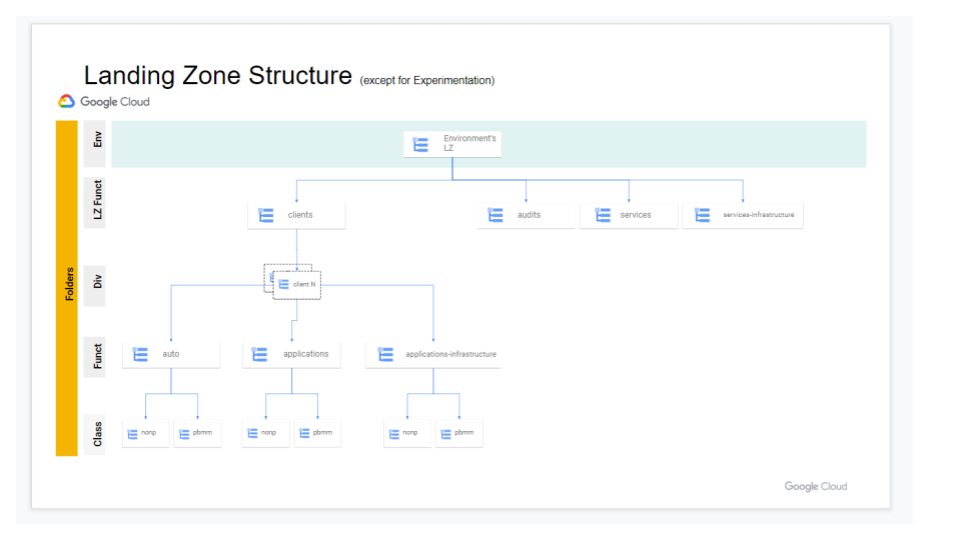
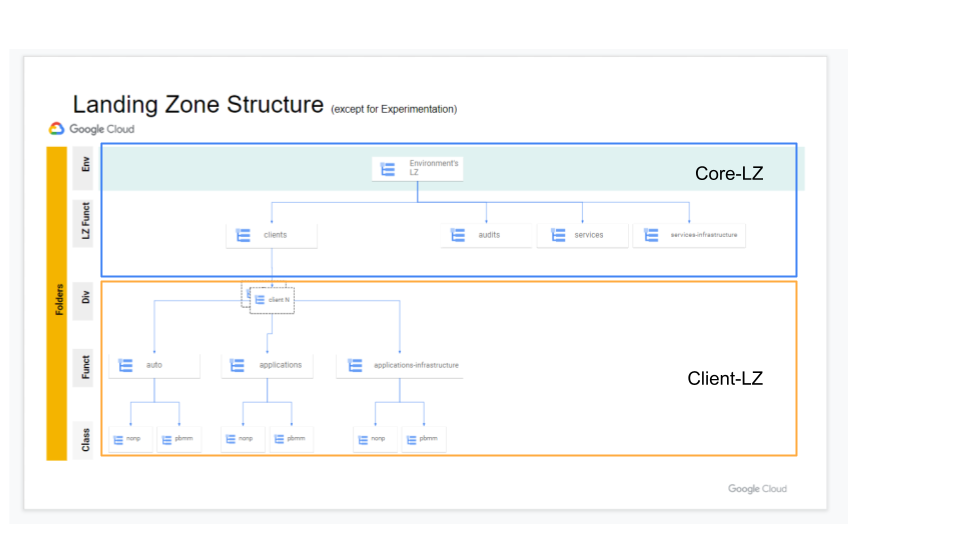
Added details on package structure and new diagram and added current pkg version to kpt commands

Changed region(s): [[0.0312, 0.1185, 0.9062, 0.8593], [0.75, 0.8889, 0.875, 0.9185], [0.7188, 0.6815, 0.8125, 0.7111]]

diff --git a/docs/landing-zone-v2/README.md b/docs/landing-zone-v2/README.md
@@ -10,8 +10,8 @@
   - [Single GCP organization](#single-gcp-organization)
   - [Multiple GCP organizations](#multiple-gcp-organizations)
   - [Folder Structure Per Environment (Dev, Preprod, Prod)](#folder-structure-per-environment-dev-preprod-prod)
-    - [Core Landing Zone Folders](#core-landing-zone-folders)
-    - [Client Landing Zone Folders](#client-landing-zone-folders)
+    - [Core Landing Zone](#core-landing-zone)
+    - [Client Landing Zone](#client-landing-zone)
   - [Setup](#setup)
     - [1. Complete the bootstrap procedure](#1-complete-the-bootstrap-procedure)
       - [Requirements](#requirements)
@@ -28,7 +28,7 @@
     - [Fetch the packages](#fetch-the-packages)
     - [2b. Deploy the infrastructure using KPT](#2b-deploy-the-infrastructure-using-kpt)
       - [gatekeeper-policies](#gatekeeper-policies)
-      - [core-landing-zone](#core-landing-zone)
+      - [core-landing-zone](#core-landing-zone-1)
   - [3. Deploy the infrastructure using GitOps](#3-deploy-the-infrastructure-using-gitops)
     - [Create a new repository in your Repo Hosting Solution (Github, Gitlab or Azure Devops)](#create-a-new-repository-in-your-repo-hosting-solution-github-gitlab-or-azure-devops)
     - [ConfigSync](#configsync)
@@ -51,25 +51,41 @@ This Landing Zone v2 differentiates from the `solutions/landing-zone` mostly bec
 
 ## <a name='Implementation'></a>Implementation
 
+
 You may want to look at the [documentation](https://github.com/ssc-spc-ccoe-cei/gcp-documentation) published by **Shared Services Canada**, providing a good level of details on how they have implemented this landing zone solution to host workloads from any of the 43 departments of the Government of Canada.
 
 ## <a name='Organization'></a>Organization
 
-This Landing Zone v2 assumes that the different required environments known as Experimentation, Development, PreProduction and Production are all instantiated with their own landing zone. This can be achieved with a single GCP organization and multiple landing zone folders representing the environments OR by using multiple GCP organizations.
+This Landing Zone v2 assumes that the different required environments known as Experimentation, Development, PreProduction and Production are all instantiated with their own landing zone. This can be achieved with a single GCP organization and multiple landing zone folders representing the environments OR by using multiple GCP organizations. 
 
 ## <a name='SingleGCPorganization'></a>Single GCP organization
+
+This pattern will be ideal for most use-cases and isolation between enviornments is achieved through folder structures.
+
+In this example a Landing Zone is deployed per environment.
 
 ![img](img/single-org.png)
 
 ## <a name='MultipleGCPorganizations'></a>Multiple GCP organizations
 
+This pattern is ideal for Departments who need a higher degree of isolation between environments by using Google Cloud Organizations as the environment boundary vs using folders.
+
+Additional details about using multiple organizations can be found [here](https://cloud.google.com/resource-manager/docs/managing-multiple-orgs).
+
 ![img](img/multi-org.png)
 
 ## <a name="folderStructure"></a>Folder Structure Per Environment (Dev, Preprod, Prod)
 
+A deployed Landing Zone contains two sections the Core Landing Zone and the Client Landing Zone. Together they will deploy a structure that matches the diagram below.
+
+
 ![img](img/folder-structure.png)
 
-### Core Landing Zone Folders
+### Core Landing Zone
+
+This is made up of two pacakges `core-landing-zone` and `gatekeeper-policies`. This section provides the core of the landing zone functionality with Logging, Org Policies, and Shared Infrastructure like DNS and a Shared VPC (coming soon) as well as compliance enforcement in Config Controller.
+
+This can be deployed once or multiple times per organization as highlighted in the diagrams below.
 
 | Folder | Usage |
 | --- | --- |
@@ -78,7 +94,13 @@ This Landing Zone v2 assumes that the different required environments known as E
 | services | Contains service projects for applications that are offered as a services (AD, Backup, Trusted Images, Artifact registry, Certificate Authority, etc.) to all clients |
 | services-infrastructure | Contains the shared hub networking project, the core dns project as well as the host project for additional services |
 
-### Client Landing Zone Folders
+### Client Landing Zone
+
+This section is made up of two packages `client-setup` and `client-landing-zone`. The client setup package prepares the Config Controller instances for the new client and creates the required service accounts and namespaces for the client to use.
+
+The `client-landing-zone` package deploys the clients Google Cloud resources, including folder structure, firewalls, and Shared Infrastructure (VPC). The deployment of these packages are repeated for each onboarded client. A client in these examples would be an a department or working group that needs isolation from other groups.
+
+It is possible to only have 1 client and service multiple teams and working groups. In this case teams would have folders or projects created under the `applications`, `auto` and/or `applications-infrastructure` folders that are created in the `client-landing-zone` deployment.
 
 | Folder | Usage |
 | --- | --- |
@@ -375,7 +397,7 @@ cd pbmm-landingzone
 1. Get the gatekeeper policies package. These are the policies which your Config Controller instance will use to [validate](https://cloud.google.com/anthos-config-management/docs/concepts/policy-controller) compliance of any configuration deployed, this currently checks for guardrails compliance and naming conventions on projects. These policies will also be validated when running the `kpt fn render` command for early feedback.
 
     ```shell
-    kpt pkg get https://github.com/GoogleCloudPlatform/pubsec-declarative-toolkit.git/solutions/gatekeeper-policies@<VERSION>
+    kpt pkg get https://github.com/GoogleCloudPlatform/pubsec-declarative-toolkit.git/solutions/gatekeeper-policies@0.2.0
     ```
 
 1. Get the landing zone package
@@ -383,13 +405,13 @@ cd pbmm-landingzone
     - Experimentation
 
       ```shell
-      kpt pkg get https://github.com/GoogleCloudPlatform/pubsec-declarative-toolkit.git/solutions/experimentation/core-landing-zone@<VERSION>
+      kpt pkg get https://github.com/GoogleCloudPlatform/pubsec-declarative-toolkit.git/solutions/experimentation/core-landing-zone@0.1.0
       ```
 
     - DEV, PREPROD, PROD
 
       ```shell
-      kpt pkg get https://github.com/GoogleCloudPlatform/pubsec-declarative-toolkit.git/solutions/core-landing-zone@<VERSION>
+      kpt pkg get https://github.com/GoogleCloudPlatform/pubsec-declarative-toolkit.git/solutions/core-landing-zone@0.3.2
       ```
 
 1. Customize Packages

diff --git a/docs/landing-zone-v2/onboarding-client.md b/docs/landing-zone-v2/onboarding-client.md
@@ -1,11 +1,12 @@
 # Client Onboarding
 
 <!-- vscode-markdown-toc -->
-* [Introduction](#Introduction)
-* [Setup](#Setup)
-* [Add client-setup package](#Addclient-setuppackage)
-* [Add the client-landing-zone package](#Addtheclient-landing-zonepackage)
-* [Next Step](#NextStep)
+- [Client Onboarding](#client-onboarding)
+  - [Introduction](#introduction)
+  - [Setup](#setup)
+  - [Add client-setup package](#add-client-setup-package)
+  - [Add the client-landing-zone package](#add-the-client-landing-zone-package)
+  - [Next Step](#next-step)
 
 <!-- vscode-markdown-toc-config
 	numbering=false
@@ -50,7 +51,7 @@ You will execute this procedure to provision the foundational resources in GCP f
 - DEV, PREPROD, PROD
 
   ```shell
-  kpt pkg get https://github.com/GoogleCloudPlatform/pubsec-declarative-toolkit.git/solutions/client-setup@<VERSION> ./clients/<client name>
+  kpt pkg get https://github.com/GoogleCloudPlatform/pubsec-declarative-toolkit.git/solutions/client-setup@0.4.1 ./clients/<client name>
   ```
 
 1. Customize the `clients/<client name>/client-setup/setters.yaml` file
@@ -75,13 +76,13 @@ You will execute this procedure to provision the foundational resources in GCP f
 - Experimentation
 
   ```shell
-  kpt pkg get https://github.com/GoogleCloudPlatform/pubsec-declarative-toolkit.git/solutions/experimentation/client-landing-zone@<VERSION> ./clients/<client name>
+  kpt pkg get https://github.com/GoogleCloudPlatform/pubsec-declarative-toolkit.git/solutions/experimentation/client-landing-zone@0.1.0 ./clients/<client name>
   ```
 
 - DEV, PREPROD, PROD
 
   ```shell
-  kpt pkg get https://github.com/GoogleCloudPlatform/pubsec-declarative-toolkit.git/solutions/client-landing-zone@<VERSION> ./clients/<client name>
+  kpt pkg get https://github.com/GoogleCloudPlatform/pubsec-declarative-toolkit.git/solutions/client-landing-zone@0.4.3 ./clients/<client name>
   ```
 
 1. Customize the `clients/<client name>/client-landing-zone/setters.yaml` file

diff --git a/docs/landing-zone-v2/onboarding-project.md b/docs/landing-zone-v2/onboarding-project.md
@@ -1,9 +1,10 @@
 # Project Onboarding
 
 <!-- vscode-markdown-toc -->
-* [Introduction](#Introduction)
-* [Setup](#Setup)
-* [Add client project package](#Addclientprojectpackage)
+- [Project Onboarding](#project-onboarding)
+  - [Introduction](#introduction)
+  - [Setup](#setup)
+  - [Add client project package](#add-client-project-package)
 
 <!-- vscode-markdown-toc-config
 	numbering=false
@@ -48,13 +49,13 @@ You will execute this procedure to provision the service project in GCP for appl
 - Experimentation
 
   ```shell
-  kpt pkg get https://github.com/GoogleCloudPlatform/pubsec-declarative-toolkit.git/solutions/experimentation/client-project@<VERSION> ./projects/<project-id>
+  kpt pkg get https://github.com/GoogleCloudPlatform/pubsec-declarative-toolkit.git/solutions/experimentation/client-project@0.1.0 ./projects/<project-id>
   ```
 
 - DEV, PREPROD, PROD
 
   ```shell
-  kpt pkg get https://github.com/GoogleCloudPlatform/pubsec-declarative-toolkit.git/solutions/client-project-setup@<VERSION> ./projects/<project-id>
+  kpt pkg get https://github.com/GoogleCloudPlatform/pubsec-declarative-toolkit.git/solutions/client-project-setup@0.4.3 ./projects/<project-id>
   ```
 
 1. Customize the `setters.yaml` file
